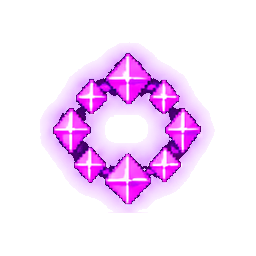
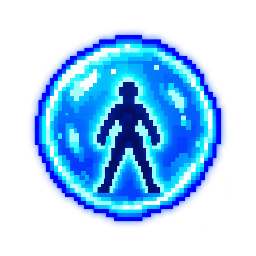
Fix bow arrow, redesign aura and correct dice pips

diff --git a/tools/extract_weapon_icons.py b/tools/extract_weapon_icons.py
@@ -96,6 +96,18 @@ def main():
         icon = extract(sheet.crop((left, top, right, bottom)), index)
         slug = EN[index-1].lower().replace(' ', '-')
         name = f'{index:02d}_{slug}.png'
+        replacement = OUT/'revisions'/name
+        if replacement.exists():
+            revised = Image.open(replacement).convert('RGBA')
+            # Generated sprites can have invisible 1/255-alpha specks far
+            # outside the art. Exclude those from sizing, retain glow padding.
+            visible = revised.getchannel('A').point(lambda a: 255 if a > 2 else 0)
+            x0,y0,x1,y1 = visible.getbbox()
+            revised = revised.crop((max(0,x0-16),max(0,y0-16),min(revised.width,x1+16),min(revised.height,y1+16)))
+            scale = min(208/revised.width, 208/revised.height)
+            revised = revised.resize((max(1,round(revised.width*scale)),max(1,round(revised.height*scale))), Image.Resampling.NEAREST)
+            icon = Image.new('RGBA',(256,256))
+            icon.paste(revised,((256-revised.width)//2,(256-revised.height)//2))
         icon.save(icons/name)
         assert icon.size == (256,256)
         alpha = np.array(icon.getchannel('A'))

diff --git a/assets/weapon-icons/revisions/prompts.md b/assets/weapon-icons/revisions/prompts.md
@@ -1,0 +1,8 @@
+# 07
+Edit this pixel art bow game inventory icon. Preserve its chunky crisp pixel art, warm brown wooden recurved bow and gold grip. FIX THE ARCHERY GEOMETRY: one continuous thin silver taut bowstring from the upper limb tip to the lower limb tip. Draw a SEPARATE clearly visible straight ARROW across the bow grip, pointing diagonally up-right, with a distinct gray metal triangular arrowhead at its forward end and GREEN FLETCHING at its rear end. Arrow shaft gold brown, not silver. String and arrow must be visibly different lines crossing at the nock, not fused parallel segments. Use a clearly readable conventional bow-with-arrow silhouette with slightly drawn string forming a V behind the arrow nock; no detached string section. Whole bow and arrow visible within generous square margins. Same original chunky pixel density and item scale. Actual transparent background, retain opaque wooden body, no frame, text, numbers, floor, shadows or extra objects.
+
+# 11
+Create the replacement Aura weapon inventory icon in the USER'S chunky crisp high-contrast pixel-art style. Image 1 is OLD INCORRECT DESIGN: do NOT retain its purple ring or crystals. Image 2 is Megabonk Aura conceptual reference: a round cyan blue energy field with a standing human silhouette inside. Image 3 is STYLE reference only: match its chunky pixel clusters, bright cyan, rich cobalt shadow, simple readable shape, restrained soft outer glow. Draw ONE circular spherical blue aura field, bright cyan rim and translucent blue inner energy surface, with a small DARK NAVY STANDING HUMAN SILHOUETTE centered inside, arms slightly away from torso and legs separated. Clear round disk, not hollow donut, not ring of gems, no orbiting gems. Make our own original pixel rendering, not a smooth enlarged copy. Strong readable silhouette at 64px, sprite native detail around 64 logical pixels. Fully visible with 15 percent transparent padding. True transparent background outside aura; retain soft cyan edge glow with alpha, inside energy disk visibly blue. No surrounding UI frame, text, names, numbers, background square, decorative sparkles or floor.
+
+# 27
+Precise edit of this pixel art dice game icon. Preserve the white central isometric cube, small orbiting dice, red pips, existing chunky pixel-art shading, placement and scale. FIX ONLY CENTRAL CUBE PIPS: top face exactly FIVE red pips; LEFT visible side exactly THREE red pips; RIGHT visible blue-shaded side exactly TWO RED PIPS, one near upper-right and one near lower-left on that same face, widely separated. Two means ONLY TWO distinct red spots on the RIGHT face; remove other pips on that face. Three visible face values must be 5,3,2, no duplicated fours. Flat clean face boundaries and coherent cube perspective. Keep surrounding little dice and entire object visible with padding. True transparent background, preserve opacity of white cube. No text, numbers, UI frame, additional graphics or backdrop. Keep same pixel density as input, no smoother repaint.

diff --git a/assets/weapon-icons/README.md b/assets/weapon-icons/README.md
@@ -15,4 +15,6 @@
 
 Повторное извлечение: установить зависимости из tools/requirements-icons.txt и запустить `python tools/extract_weapon_icons.py` из корня проекта.
 
+Исправления №7, 11 и 27 хранятся в revisions/ и автоматически заменяют вырезанные исходные версии при сборке. Они выполнены встроенным imagegen, промпты сохранены рядом. №7: отдельные стрела и тетива; №11: голубая аура с силуэтом; №27: две точки на правой грани центрального кубика. Для этих трёх иконок используется прозрачность сгенерированных PNG. Референс Aura: https://megabonk.org/images/database/weapons/Aura.png.
+
 Порядок соответствует исходному листу: 6 столбцов, 5 строк, слева направо и сверху вниз. №21 — Verdict / Приговор, №28 — Dawnhammer / Рассветный молот, №29 — Voidgrasp / Хватка бездны.
